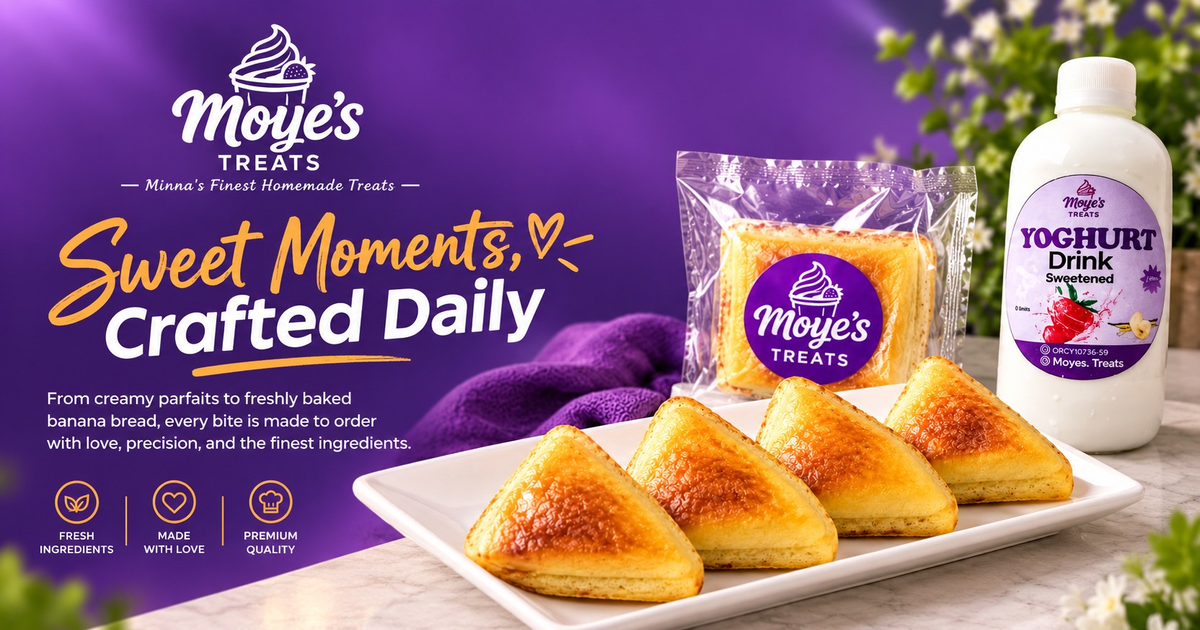
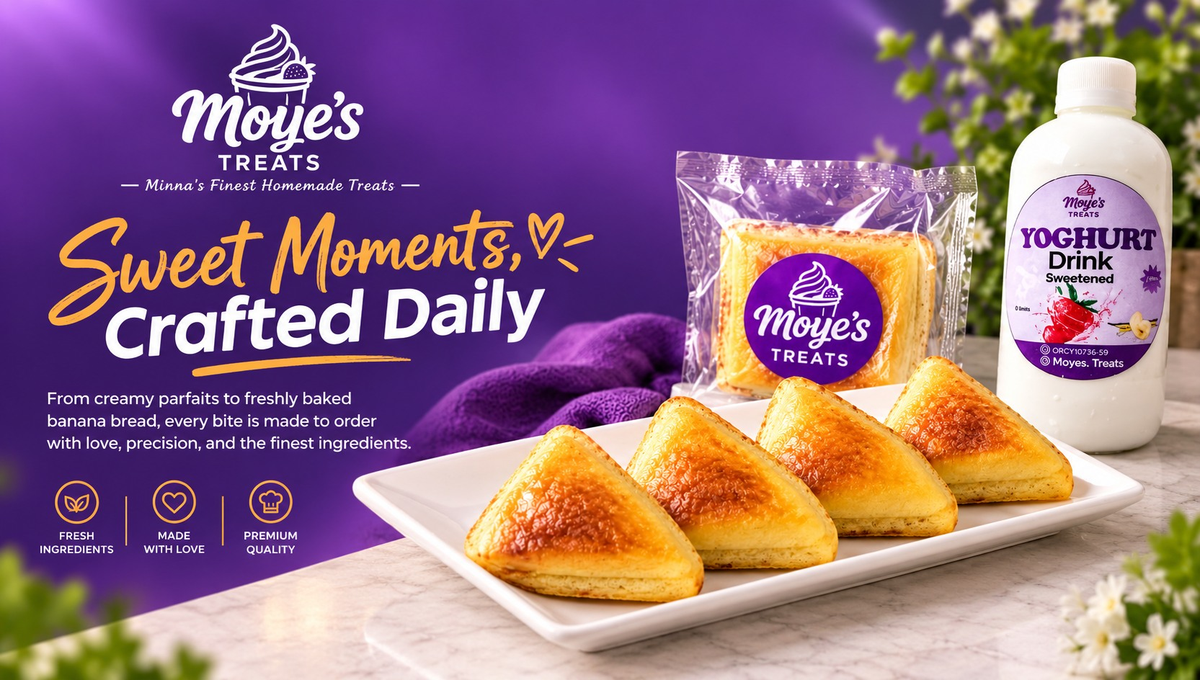
.

diff --git a/index.html b/index.html
@@ -23,7 +23,7 @@
   <meta property="og:locale" content="en_NG" />
   <meta property="og:image" content="https://moyestreats.com/assets/social-preview.png"/>
   <meta property="og:image:width" content="1200" />
-  <meta property="og:image:height" content="630" />
+  <meta property="og:image:height" content="680" />
   <meta property="og:image:type" content="image/png" />
   <meta property="og:image:alt" content="Moye's Treats — Minna's Finest Homemade Treats"/>
 
